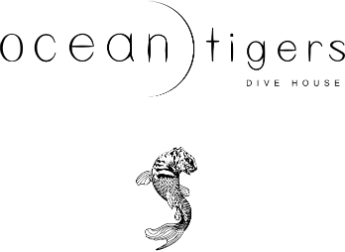
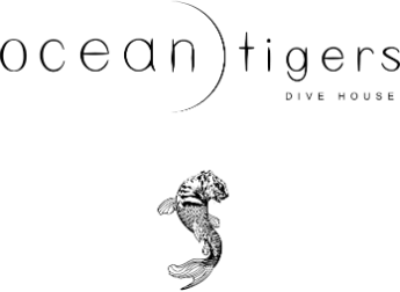
minor changes: padding, img sizes, etc.

diff --git a/css/agency.min.css b/css/agency.min.css
@@ -1,5 +1,5 @@
-.btn-primary.active,.btn-primary:active,.btn-xl.active,.btn-xl:active,.open .dropdown-toggle.btn-primary,.open .dropdown-toggle.btn-xl{background-image:none}.picBtn{position:relative}.picBtn:hover{-moz-box-shadow:0 15px 25px #ccc;-webkit-box-shadow:0 15px 25px #ccc;box-shadow:0 15px 25px #ccc}.picBtn:active{margin-left:10px;margin-top:10px}/*!
+.bg-light-gray,.picBtn{background-color:#eee}.btn-primary.active,.btn-primary:active,.btn-xl.active,.btn-xl:active,.open .dropdown-toggle.btn-primary,.open .dropdown-toggle.btn-xl{background-image:none}.picBtn{position:relative}.picBtn:hover{-moz-box-shadow:0 15px 25px #ccc;-webkit-box-shadow:0 15px 25px #ccc;box-shadow:0 15px 25px #ccc}.picBtn:active{padding-left:10px;padding-top:10px}/*!
  * Start Bootstrap - Agency v1.1.1 (http://startbootstrap.com/template-overviews/agency)
  * Copyright 2013-2016 Start Bootstrap
  * Licensed under MIT (https://github.com/BlackrockDigital/startbootstrap/blob/gh-pages/LICENSE)
- */body{overflow-x:hidden;font-family:"Roboto Slab","Helvetica Neue",Helvetica,Arial,sans-serif;webkit-tap-highlight-color:#fed136}.btn-primary,.btn-xl,h1,h2,h3,h4,h5,h6{font-family:Montserrat,"Helvetica Neue",Helvetica,Arial,sans-serif;text-transform:uppercase;font-weight:700}.text-muted{color:#777}.text-primary,a{color:#fed136}p{font-size:14px;line-height:1.75}p.large{font-size:16px}a,a.active,a:active,a:focus,a:hover{outline:0}a.active,a:active,a:focus,a:hover{color:#fec503}.img-centered{margin:0 auto}.bg-light-gray{background-color:#eee}.bg-darkest-gray{background-color:#222}.btn-primary{color:#fff;background-color:#fed136;border-color:#fed136}.btn-primary.active,.btn-primary:active,.btn-primary:focus,.btn-primary:hover,.open .dropdown-toggle.btn-primary{color:#fff;background-color:#fec503;border-color:#f6bf01}.btn-primary.disabled,.btn-primary.disabled.active,.btn-primary.disabled:active,.btn-primary.disabled:focus,.btn-primary.disabled:hover,.btn-primary[disabled],.btn-primary[disabled].active,.btn-primary[disabled]:active,.btn-primary[disabled]:focus,.btn-primary[disabled]:hover,fieldset[disabled] .btn-primary,fieldset[disabled] .btn-primary.active,fieldset[disabled] .btn-primary:active,fieldset[disabled] .btn-primary:focus,fieldset[disabled] .btn-primary:hover{background-color:#fed136;border-color:#fed136}.btn-primary .badge{color:#fed136;background-color:#fff}.btn-xl{color:#fff;background-color:#fed136;border-color:#fed136;border-radius:3px;font-size:18px;padding:20px 40px}.btn-xl.active,.btn-xl:active,.btn-xl:focus,.btn-xl:hover,.open .dropdown-toggle.btn-xl{color:#fff;background-color:#fec503;border-color:#f6bf01}.btn-xl.disabled,.btn-xl.disabled.active,.btn-xl.disabled:active,.btn-xl.disabled:focus,.btn-xl.disabled:hover,.btn-xl[disabled],.btn-xl[disabled].active,.btn-xl[disabled]:active,.btn-xl[disabled]:focus,.btn-xl[disabled]:hover,fieldset[disabled] .btn-xl,fieldset[disabled] .btn-xl.active,fieldset[disabled] .btn-xl:active,fieldset[disabled] .btn-xl:focus,fieldset[disabled] .btn-xl:hover{background-color:#fed136;border-color:#fed136}.btn-xl .badge{color:#fed136;background-color:#fff}.navbar-custom{background-color:#222;border-color:transparent}.navbar-custom .navbar-brand{color:#fed136;font-family:"Kaushan Script","Helvetica Neue",Helvetica,Arial,cursive}.navbar-custom .navbar-brand.active,.navbar-custom .navbar-brand:active,.navbar-custom .navbar-brand:focus,.navbar-custom .navbar-brand:hover{color:#fec503}.navbar-custom .nav li a,.navbar-custom .navbar-toggle{font-family:Montserrat,"Helvetica Neue",Helvetica,Arial,sans-serif;color:#fff;text-transform:uppercase}.navbar-custom .navbar-collapse{border-color:rgba(255,255,255,.02)}.navbar-custom .navbar-toggle{background-color:#fed136;border-color:#fed136;font-size:12px}.navbar-custom .navbar-toggle:focus,.navbar-custom .navbar-toggle:hover{background-color:#fed136}.navbar-custom .nav li a{font-weight:400;letter-spacing:1px}.navbar-custom .nav li a:focus,.navbar-custom .nav li a:hover{color:#fed136;outline:0}.navbar-custom .navbar-nav>.active>a{border-radius:0;color:#fff;background-color:#fed136}.navbar-custom .navbar-nav>.active>a:focus,.navbar-custom .navbar-nav>.active>a:hover{color:#fff;background-color:#fec503}@media (min-width:768px){.navbar-custom{background-color:transparent;padding:25px 0;-webkit-transition:padding .3s;-moz-transition:padding .3s;transition:padding .3s;border:none}.navbar-custom .navbar-brand{font-size:2em;-webkit-transition:all .3s;-moz-transition:all .3s;transition:all .3s}.navbar-custom .navbar-nav>.active>a{border-radius:3px}.navbar-custom.affix{background-color:#222;padding:10px 0}.navbar-custom.affix .navbar-brand{font-size:1.5em}}header{background-image:url(../img/about/toph_banner.jpg);background-repeat:no-repeat;background-attachment:scroll;background-position:center center;-webkit-background-size:cover;-moz-background-size:cover;background-size:cover;-o-background-size:cover;text-align:center;color:#fff}header .intro-text{padding-top:100px;padding-bottom:50px}header .intro-text .intro-lead-in{font-family:"Droid Serif","Helvetica Neue",Helvetica,Arial,sans-serif;font-style:italic;font-size:22px;line-height:22px;margin-bottom:25px}header .intro-text .intro-heading{font-family:Montserrat,"Helvetica Neue",Helvetica,Arial,sans-serif;text-transform:uppercase;font-weight:700;font-size:50px;line-height:50px;margin-bottom:25px}@media (min-width:768px){header .intro-text{padding-top:300px;padding-bottom:200px}header .intro-text .intro-lead-in{font-family:"Droid Serif","Helvetica Neue",Helvetica,Arial,sans-serif;font-style:italic;font-size:40px;line-height:40px;margin-bottom:25px}header .intro-text .intro-heading{font-family:Montserrat,"Helvetica Neue",Helvetica,Arial,sans-serif;text-transform:uppercase;font-weight:700;font-size:75px;line-height:75px;margin-bottom:50px}}#portfolio .portfolio-item .portfolio-caption p,section h3.section-subheading{font-family:"Droid Serif","Helvetica Neue",Helvetica,Arial,sans-serif;font-style:italic}section{padding:100px 0}section h2.section-heading{font-size:40px;margin-top:0;margin-bottom:15px}section h3.section-subheading{font-size:16px;text-transform:none;font-weight:400;margin-bottom:75px}@media (min-width:768px){section{padding:150px 0}}.service-heading{margin:15px 0;text-transform:none}#portfolio .portfolio-item{margin:0 0 15px;right:0}#portfolio .portfolio-item .portfolio-link{display:block;position:relative;max-width:400px;margin:0 auto}#portfolio .portfolio-item .portfolio-link .portfolio-hover{background:rgba(254,209,54,.9);position:absolute;width:100%;height:100%;opacity:0;transition:all ease .5s;-webkit-transition:all ease .5s;-moz-transition:all ease .5s}#portfolio .portfolio-item .portfolio-link .portfolio-hover:hover{opacity:1}#portfolio .portfolio-item .portfolio-link .portfolio-hover .portfolio-hover-content{position:absolute;width:100%;height:20px;font-size:20px;text-align:center;top:50%;margin-top:-12px;color:#fff}#portfolio .portfolio-item .portfolio-link .portfolio-hover .portfolio-hover-content i{margin-top:-12px}#portfolio .portfolio-item .portfolio-link .portfolio-hover .portfolio-hover-content h3,#portfolio .portfolio-item .portfolio-link .portfolio-hover .portfolio-hover-content h4{margin:0}#portfolio .portfolio-item .portfolio-caption{max-width:400px;margin:0 auto;background-color:#fff;text-align:center;padding:25px}#portfolio .portfolio-item .portfolio-caption h4{text-transform:none;margin:0}#portfolio .portfolio-item .portfolio-caption p{font-size:16px;margin:0}footer span.copyright,footer ul.quicklinks{font-family:Montserrat,"Helvetica Neue",Helvetica,Arial,sans-serif}#portfolio *{z-index:2}@media (min-width:767px){#portfolio .portfolio-item{margin:0 0 30px}}.timeline{list-style:none;padding:0;position:relative}.timeline:before{top:0;bottom:0;position:absolute;content:"";width:2px;background-color:#f1f1f1;left:40px;margin-left:-1.5px}.timeline>li{margin-bottom:50px;position:relative;min-height:50px}.timeline>li:after,.timeline>li:before{content:" ";display:table}.timeline>li:after{clear:both}.timeline>li .timeline-panel{width:100%;float:right;padding:0 20px 0 100px;position:relative;text-align:left}.timeline>li .timeline-panel:before{border-left-width:0;border-right-width:15px;left:-15px;right:auto}.timeline>li .timeline-panel:after{border-left-width:0;border-right-width:14px;left:-14px;right:auto}.timeline>li .timeline-image{left:0;margin-left:0;width:80px;height:80px;position:absolute;z-index:100;background-color:#fed136;color:#fff;border-radius:100%;border:7px solid #f1f1f1;text-align:center}.timeline>li .timeline-image h4{font-size:10px;margin-top:12px;line-height:14px}.timeline>li.timeline-inverted>.timeline-panel{float:right;text-align:left;padding:0 20px 0 100px}.timeline>li.timeline-inverted>.timeline-panel:before{border-left-width:0;border-right-width:15px;left:-15px;right:auto}.timeline>li.timeline-inverted>.timeline-panel:after{border-left-width:0;border-right-width:14px;left:-14px;right:auto}.timeline>li:last-child{margin-bottom:0}.timeline .timeline-heading h4{margin-top:0;color:inherit}.timeline .timeline-heading h4.subheading{text-transform:none}.timeline .timeline-body>p,.timeline .timeline-body>ul{margin-bottom:0}@media (min-width:768px){.timeline:before{left:50%}.timeline>li{margin-bottom:100px;min-height:100px}.timeline>li .timeline-panel{width:41%;float:left;padding:0 20px 20px 30px;text-align:right}.timeline>li .timeline-image{width:100px;height:100px;left:50%;margin-left:-50px}.timeline>li .timeline-image h4{font-size:13px;margin-top:16px;line-height:18px}.timeline>li.timeline-inverted>.timeline-panel{float:right;text-align:left;padding:0 30px 20px 20px}}@media (min-width:992px){.timeline>li .timeline-panel,.timeline>li.timeline-inverted>.timeline-panel{padding:0 20px 20px}.timeline>li{min-height:150px}.timeline>li .timeline-image{width:150px;height:150px;margin-left:-75px}.timeline>li .timeline-image h4{font-size:18px;margin-top:30px;line-height:26px}}@media (min-width:1200px){.timeline>li{min-height:170px}.timeline>li .timeline-panel{padding:0 20px 20px 100px}.timeline>li .timeline-image{width:170px;height:170px;margin-left:-85px}.timeline>li .timeline-image h4{margin-top:40px}.timeline>li.timeline-inverted>.timeline-panel{padding:0 100px 20px 20px}}.team-member{text-align:center;margin-bottom:50px}.team-member img{margin:0 auto;border:7px solid #fff}.team-member h4{margin-top:25px;margin-bottom:0;text-transform:none}.team-member p{margin-top:0}aside.clients img{margin:50px auto}section#contact{background-color:#222;background-image:url(../img/map-image.png);background-position:center;background-repeat:no-repeat}section#contact .section-heading{color:#fff}section#contact .form-group{margin-bottom:25px}section#contact .form-group input,section#contact .form-group textarea{padding:20px}section#contact .form-group input.form-control{height:auto}section#contact .form-group textarea.form-control{height:236px}section#contact .form-control:focus{border-color:#fed136;box-shadow:none}section#contact ::-webkit-input-placeholder{font-family:Montserrat,"Helvetica Neue",Helvetica,Arial,sans-serif;text-transform:uppercase;font-weight:700;color:#eee}section#contact :-moz-placeholder{font-family:Montserrat,"Helvetica Neue",Helvetica,Arial,sans-serif;text-transform:uppercase;font-weight:700;color:#eee}section#contact ::-moz-placeholder{font-family:Montserrat,"Helvetica Neue",Helvetica,Arial,sans-serif;text-transform:uppercase;font-weight:700;color:#eee}section#contact :-ms-input-placeholder{font-family:Montserrat,"Helvetica Neue",Helvetica,Arial,sans-serif;text-transform:uppercase;font-weight:700;color:#eee}section#contact .text-danger{color:#e74c3c}footer{padding:25px 0;text-align:center}footer span.copyright{line-height:40px;text-transform:uppercase;text-transform:none}footer ul.quicklinks{margin-bottom:0;line-height:40px;text-transform:uppercase;text-transform:none}ul.social-buttons{margin-bottom:0}ul.social-buttons li a{display:block;background-color:#222;height:40px;width:40px;border-radius:100%;font-size:20px;line-height:40px;color:#fff;outline:0;-webkit-transition:all .3s;-moz-transition:all .3s;transition:all .3s}ul.social-buttons li a:active,ul.social-buttons li a:focus,ul.social-buttons li a:hover{background-color:#fed136}.btn.active,.btn:active,.btn:active:focus,.btn:focus{outline:0}.portfolio-modal .modal-dialog{margin:0;height:100%;width:auto}.portfolio-modal .modal-content{border-radius:0;background-clip:border-box;-webkit-box-shadow:none;box-shadow:none;border:none;min-height:100%;padding:100px 0;text-align:center}.portfolio-modal .modal-content h2{margin-bottom:15px;font-size:3em}.portfolio-modal .modal-content p{margin-bottom:30px}.portfolio-modal .modal-content p.item-intro{margin:20px 0 30px;font-family:"Droid Serif","Helvetica Neue",Helvetica,Arial,sans-serif;font-style:italic;font-size:16px}.portfolio-modal .modal-content ul.list-inline{margin-bottom:30px;margin-top:0}.portfolio-modal .modal-content img{margin-bottom:30px}.portfolio-modal .close-modal{position:absolute;width:75px;height:75px;background-color:transparent;top:25px;right:25px;cursor:pointer}.portfolio-modal .close-modal:hover{opacity:.3}.portfolio-modal .close-modal .lr{height:75px;width:1px;margin-left:35px;background-color:#222;transform:rotate(45deg);-ms-transform:rotate(45deg);-webkit-transform:rotate(45deg);z-index:1051}.portfolio-modal .close-modal .lr .rl{height:75px;width:1px;background-color:#222;transform:rotate(90deg);-ms-transform:rotate(90deg);-webkit-transform:rotate(90deg);z-index:1052}.portfolio-modal .modal-backdrop{opacity:0;display:none}::-moz-selection{text-shadow:none;background:#fed136}::selection{text-shadow:none;background:#fed136}img::selection{background:0 0}img::-moz-selection{background:0 0}
+ */body{overflow-x:hidden;font-family:"Roboto Slab","Helvetica Neue",Helvetica,Arial,sans-serif;webkit-tap-highlight-color:#fed136}.btn-primary,.btn-xl,h1,h2,h3,h4,h5,h6{font-family:Montserrat,"Helvetica Neue",Helvetica,Arial,sans-serif;text-transform:uppercase;font-weight:700}.text-muted{color:#777}.text-primary,a{color:#fed136}p{font-size:14px;line-height:1.75}p.large{font-size:16px}a,a.active,a:active,a:focus,a:hover{outline:0}a.active,a:active,a:focus,a:hover{color:#fec503}.img-centered{margin:0 auto}.bg-darkest-gray{background-color:#222}.btn-primary{color:#fff;background-color:#fed136;border-color:#fed136}.btn-primary.active,.btn-primary:active,.btn-primary:focus,.btn-primary:hover,.open .dropdown-toggle.btn-primary{color:#fff;background-color:#fec503;border-color:#f6bf01}.btn-primary.disabled,.btn-primary.disabled.active,.btn-primary.disabled:active,.btn-primary.disabled:focus,.btn-primary.disabled:hover,.btn-primary[disabled],.btn-primary[disabled].active,.btn-primary[disabled]:active,.btn-primary[disabled]:focus,.btn-primary[disabled]:hover,fieldset[disabled] .btn-primary,fieldset[disabled] .btn-primary.active,fieldset[disabled] .btn-primary:active,fieldset[disabled] .btn-primary:focus,fieldset[disabled] .btn-primary:hover{background-color:#fed136;border-color:#fed136}.btn-primary .badge{color:#fed136;background-color:#fff}.btn-xl{color:#fff;background-color:#fed136;border-color:#fed136;border-radius:3px;font-size:18px;padding:20px 40px}.btn-xl.active,.btn-xl:active,.btn-xl:focus,.btn-xl:hover,.open .dropdown-toggle.btn-xl{color:#fff;background-color:#fec503;border-color:#f6bf01}.btn-xl.disabled,.btn-xl.disabled.active,.btn-xl.disabled:active,.btn-xl.disabled:focus,.btn-xl.disabled:hover,.btn-xl[disabled],.btn-xl[disabled].active,.btn-xl[disabled]:active,.btn-xl[disabled]:focus,.btn-xl[disabled]:hover,fieldset[disabled] .btn-xl,fieldset[disabled] .btn-xl.active,fieldset[disabled] .btn-xl:active,fieldset[disabled] .btn-xl:focus,fieldset[disabled] .btn-xl:hover{background-color:#fed136;border-color:#fed136}.btn-xl .badge{color:#fed136;background-color:#fff}.navbar-custom{background-color:#222;border-color:transparent}.navbar-custom .navbar-brand{color:#fed136;font-family:"Kaushan Script","Helvetica Neue",Helvetica,Arial,cursive}.navbar-custom .navbar-brand.active,.navbar-custom .navbar-brand:active,.navbar-custom .navbar-brand:focus,.navbar-custom .navbar-brand:hover{color:#fec503}.navbar-custom .nav li a,.navbar-custom .navbar-toggle{font-family:Montserrat,"Helvetica Neue",Helvetica,Arial,sans-serif;color:#fff;text-transform:uppercase}.navbar-custom .navbar-collapse{border-color:rgba(255,255,255,.02)}.navbar-custom .navbar-toggle{background-color:#fed136;border-color:#fed136;font-size:12px}.navbar-custom .navbar-toggle:focus,.navbar-custom .navbar-toggle:hover{background-color:#fed136}.navbar-custom .nav li a{font-weight:400;letter-spacing:1px}.navbar-custom .nav li a:focus,.navbar-custom .nav li a:hover{color:#fed136;outline:0}.navbar-custom .navbar-nav>.active>a{border-radius:0;color:#fff;background-color:#fed136}.navbar-custom .navbar-nav>.active>a:focus,.navbar-custom .navbar-nav>.active>a:hover{color:#fff;background-color:#fec503}@media (min-width:768px){.navbar-custom{background-color:transparent;padding:25px 0;-webkit-transition:padding .3s;-moz-transition:padding .3s;transition:padding .3s;border:none}.navbar-custom .navbar-brand{font-size:2em;-webkit-transition:all .3s;-moz-transition:all .3s;transition:all .3s}.navbar-custom .navbar-nav>.active>a{border-radius:3px}.navbar-custom.affix{background-color:#222;padding:10px 0}.navbar-custom.affix .navbar-brand{font-size:1.5em}}header{background-image:url(../img/about/toph_banner.jpg);background-repeat:no-repeat;background-attachment:scroll;background-position:center center;-webkit-background-size:cover;-moz-background-size:cover;background-size:cover;-o-background-size:cover;text-align:center;color:#fff}header .intro-text{padding-top:100px;padding-bottom:50px}header .intro-text .intro-lead-in{font-family:"Droid Serif","Helvetica Neue",Helvetica,Arial,sans-serif;font-style:italic;font-size:22px;line-height:22px;margin-bottom:25px}header .intro-text .intro-heading{font-family:Montserrat,"Helvetica Neue",Helvetica,Arial,sans-serif;text-transform:uppercase;font-weight:700;font-size:50px;line-height:50px;margin-bottom:25px}@media (min-width:768px){header .intro-text{padding-top:300px;padding-bottom:200px}header .intro-text .intro-lead-in{font-family:"Droid Serif","Helvetica Neue",Helvetica,Arial,sans-serif;font-style:italic;font-size:40px;line-height:40px;margin-bottom:25px}header .intro-text .intro-heading{font-family:Montserrat,"Helvetica Neue",Helvetica,Arial,sans-serif;text-transform:uppercase;font-weight:700;font-size:75px;line-height:75px;margin-bottom:50px}}#portfolio .portfolio-item .portfolio-caption p,section h3.section-subheading{font-family:"Droid Serif","Helvetica Neue",Helvetica,Arial,sans-serif;font-style:italic}section{padding:100px 0}section h2.section-heading{font-size:40px;margin-top:0;margin-bottom:15px}section h3.section-subheading{font-size:16px;text-transform:none;font-weight:400;margin-bottom:75px}@media (min-width:768px){section{padding:150px 0}}.service-heading{margin:15px 0;text-transform:none}#portfolio .portfolio-item{margin:0 0 15px;right:0}#portfolio .portfolio-item .portfolio-link{display:block;position:relative;max-width:400px;margin:0 auto}#portfolio .portfolio-item .portfolio-link .portfolio-hover{background:rgba(254,209,54,.9);position:absolute;width:100%;height:100%;opacity:0;transition:all ease .5s;-webkit-transition:all ease .5s;-moz-transition:all ease .5s}#portfolio .portfolio-item .portfolio-link .portfolio-hover:hover{opacity:1}#portfolio .portfolio-item .portfolio-link .portfolio-hover .portfolio-hover-content{position:absolute;width:100%;height:20px;font-size:20px;text-align:center;top:50%;margin-top:-12px;color:#fff}#portfolio .portfolio-item .portfolio-link .portfolio-hover .portfolio-hover-content i{margin-top:-12px}#portfolio .portfolio-item .portfolio-link .portfolio-hover .portfolio-hover-content h3,#portfolio .portfolio-item .portfolio-link .portfolio-hover .portfolio-hover-content h4{margin:0}#portfolio .portfolio-item .portfolio-caption{max-width:400px;margin:0 auto;background-color:#fff;text-align:center;padding:25px}#portfolio .portfolio-item .portfolio-caption h4{text-transform:none;margin:0}#portfolio .portfolio-item .portfolio-caption p{font-size:16px;margin:0}footer span.copyright,footer ul.quicklinks{font-family:Montserrat,"Helvetica Neue",Helvetica,Arial,sans-serif}#portfolio *{z-index:2}@media (min-width:767px){#portfolio .portfolio-item{margin:0 0 30px}}.timeline{list-style:none;padding:0;position:relative}.timeline:before{top:0;bottom:0;position:absolute;content:"";width:2px;background-color:#f1f1f1;left:40px;margin-left:-1.5px}.timeline>li{margin-bottom:50px;position:relative;min-height:50px}.timeline>li:after,.timeline>li:before{content:" ";display:table}.timeline>li:after{clear:both}.timeline>li .timeline-panel{width:100%;float:right;padding:0 20px 0 100px;position:relative;text-align:left}.timeline>li .timeline-panel:before{border-left-width:0;border-right-width:15px;left:-15px;right:auto}.timeline>li .timeline-panel:after{border-left-width:0;border-right-width:14px;left:-14px;right:auto}.timeline>li .timeline-image{left:0;margin-left:0;width:80px;height:80px;position:absolute;z-index:100;background-color:#fed136;color:#fff;border-radius:100%;border:7px solid #f1f1f1;text-align:center}.timeline>li .timeline-image h4{font-size:10px;margin-top:12px;line-height:14px}.timeline>li.timeline-inverted>.timeline-panel{float:right;text-align:left;padding:0 20px 0 100px}.timeline>li.timeline-inverted>.timeline-panel:before{border-left-width:0;border-right-width:15px;left:-15px;right:auto}.timeline>li.timeline-inverted>.timeline-panel:after{border-left-width:0;border-right-width:14px;left:-14px;right:auto}.timeline>li:last-child{margin-bottom:0}.timeline .timeline-heading h4{margin-top:0;color:inherit}.timeline .timeline-heading h4.subheading{text-transform:none}.timeline .timeline-body>p,.timeline .timeline-body>ul{margin-bottom:0}@media (min-width:768px){.timeline:before{left:50%}.timeline>li{margin-bottom:100px;min-height:100px}.timeline>li .timeline-panel{width:41%;float:left;padding:0 20px 20px 30px;text-align:right}.timeline>li .timeline-image{width:100px;height:100px;left:50%;margin-left:-50px}.timeline>li .timeline-image h4{font-size:13px;margin-top:16px;line-height:18px}.timeline>li.timeline-inverted>.timeline-panel{float:right;text-align:left;padding:0 30px 20px 20px}}@media (min-width:992px){.timeline>li .timeline-panel,.timeline>li.timeline-inverted>.timeline-panel{padding:0 20px 20px}.timeline>li{min-height:150px}.timeline>li .timeline-image{width:150px;height:150px;margin-left:-75px}.timeline>li .timeline-image h4{font-size:18px;margin-top:30px;line-height:26px}}@media (min-width:1200px){.timeline>li{min-height:170px}.timeline>li .timeline-panel{padding:0 20px 20px 100px}.timeline>li .timeline-image{width:170px;height:170px;margin-left:-85px}.timeline>li .timeline-image h4{margin-top:40px;padding:0 10px}.timeline>li.timeline-inverted>.timeline-panel{padding:0 100px 20px 20px}}.team-member{text-align:center;margin-bottom:50px}.team-member img{margin:0 auto;border:7px solid #fff}.team-member h4{margin-top:25px;margin-bottom:0;text-transform:none}.team-member p{margin-top:0}aside.clients img{margin:50px auto}section#contact{background-color:#222;background-image:url(../img/map-image.png);background-position:center;background-repeat:no-repeat}section#contact .section-heading{color:#fff}section#contact .form-group{margin-bottom:25px}section#contact .form-group input,section#contact .form-group textarea{padding:20px}section#contact .form-group input.form-control{height:auto}section#contact .form-group textarea.form-control{height:236px}section#contact .form-control:focus{border-color:#fed136;box-shadow:none}section#contact ::-webkit-input-placeholder{font-family:Montserrat,"Helvetica Neue",Helvetica,Arial,sans-serif;text-transform:uppercase;font-weight:700;color:#eee}section#contact :-moz-placeholder{font-family:Montserrat,"Helvetica Neue",Helvetica,Arial,sans-serif;text-transform:uppercase;font-weight:700;color:#eee}section#contact ::-moz-placeholder{font-family:Montserrat,"Helvetica Neue",Helvetica,Arial,sans-serif;text-transform:uppercase;font-weight:700;color:#eee}section#contact :-ms-input-placeholder{font-family:Montserrat,"Helvetica Neue",Helvetica,Arial,sans-serif;text-transform:uppercase;font-weight:700;color:#eee}section#contact .text-danger{color:#e74c3c}footer{padding:25px 0;text-align:center}footer span.copyright{line-height:40px;text-transform:uppercase;text-transform:none}footer ul.quicklinks{margin-bottom:0;line-height:40px;text-transform:uppercase;text-transform:none}ul.social-buttons{margin-bottom:0}ul.social-buttons li a{display:block;background-color:#222;height:40px;width:40px;border-radius:100%;font-size:20px;line-height:40px;color:#fff;outline:0;-webkit-transition:all .3s;-moz-transition:all .3s;transition:all .3s}ul.social-buttons li a:active,ul.social-buttons li a:focus,ul.social-buttons li a:hover{background-color:#fed136}.btn.active,.btn:active,.btn:active:focus,.btn:focus{outline:0}.portfolio-modal .modal-dialog{margin:0;height:100%;width:auto}.portfolio-modal .modal-content{border-radius:0;background-clip:border-box;-webkit-box-shadow:none;box-shadow:none;border:none;min-height:100%;padding:100px 0;text-align:center}.portfolio-modal .modal-content h2{margin-bottom:15px;font-size:3em}.portfolio-modal .modal-content p{margin-bottom:30px}.portfolio-modal .modal-content p.item-intro{margin:20px 0 30px;font-family:"Droid Serif","Helvetica Neue",Helvetica,Arial,sans-serif;font-style:italic;font-size:16px}.portfolio-modal .modal-content ul.list-inline{margin-bottom:30px;margin-top:0}.portfolio-modal .modal-content img{margin-bottom:30px}.portfolio-modal .close-modal{position:absolute;width:75px;height:75px;background-color:transparent;top:25px;right:25px;cursor:pointer}.portfolio-modal .close-modal:hover{opacity:.3}.portfolio-modal .close-modal .lr{height:75px;width:1px;margin-left:35px;background-color:#222;transform:rotate(45deg);-ms-transform:rotate(45deg);-webkit-transform:rotate(45deg);z-index:1051}.portfolio-modal .close-modal .lr .rl{height:75px;width:1px;background-color:#222;transform:rotate(90deg);-ms-transform:rotate(90deg);-webkit-transform:rotate(90deg);z-index:1052}.portfolio-modal .modal-backdrop{opacity:0;display:none}::-moz-selection{text-shadow:none;background:#fed136}::selection{text-shadow:none;background:#fed136}img::selection{background:0 0}img::-moz-selection{background:0 0}

diff --git a/index.html b/index.html
@@ -462,13 +462,44 @@
                                 <!-- Project Details Go Here -->
                                 <h2>Ocean Tigers Dive House</h2>
                                 <p class="item-intro text-muted">A custom-built website design and build.</p>
-                                <a href="//www.oceantigers.com" target="_blank" id="oceanTigers">
-                                  <img class="img-responsive img-centered picBtn" src="img/portfolio/ocean-tigers-banner.jpg" alt="AUGHH! Where'd the Ocean Tigers image go?!" id="otButton">
-                                </a>
+                                <div class="picBtn">
+                                  <a href="//www.oceantigers.com" target="_blank" id="oceanTigers">
+                                    <img class="img-responsive img-centered" src="img/portfolio/ocean-tigers-banner.jpg" alt="AUGHH! Where'd the Ocean Tigers image go?!" id="otButton">
+                                  </a>
+                                </div>
                                 <p>
                                   <strong>Do you need a static site to connect with your customers?</strong> The
                                   <a href="//www.oceantigers.com" target="_blank">Ocean Tigers Dive House</a>
                                   , located in Cabo San Lucas is a Hostel that specializes in providing Free-Diving and SCUBA Diving instruction and certification.
+                                </p>
+                                <p>
+                                    I worked with the hostel owners to put their vision online and connect it with their Facebook, Instagram, and Airbnb accounts.
+                                    I also made sure that any search related to free diving, SCUBA diving, and hostels in Cabo resulted in Ocean Tigers being bumped right to the top of a google search.  Give it a try! Google them yourself!</p>
+                                <ul class="list-inline">
+                                    <li>Date: June 2016</li>
+                                    <li>Client: Ocean Tigers Dive House</li>
+                                    <li>Category: Website Design and Development</li>
+                                    <li>Time Estimate: 90 hours
+                                </ul>
+                                <button type="button" class="btn btn-primary" data-dismiss="modal"><i class="fa fa-times"></i> Close Project</button>
+                            </div>
+                        </div>
+                    </div>
+                </div>
+                <div class="container">
+                    <div class="row">
+                        <div class="col-lg-8 col-lg-offset-2">
+                            <div class="modal-body">
+                                <!-- Project Details Go Here -->
+                                <h2>Topher's Online Portfolio</h2>
+                                <p class="item-intro text-muted">A bootstrap-themed website redesign.</p>
+                                <div class="picBtn">
+                                  <a href="//iareintelligent.github.io/tophs-portfolio/" target="_blank">
+                                    <img class="img-responsive img-centered" src="img/about/portfolio-screenshot.png" alt="AUGHH! Where'd the portfolio image go?!" id="otButton">
+                                  </a>
+                                </div>
+                                <p>
+                                  <strong>Want to repurpose a theme?</strong> My own personal site was built using a 
                                 </p>
                                 <p>
                                     I worked with the hostel owners to put their vision online and connect it with their Facebook, Instagram, and Airbnb accounts.
@@ -504,9 +535,9 @@
                             <div class="modal-body">
                                 <h2>THREDE LLC</h2>
                                 <p class="item-intro text-muted">A custom-made website design and build (work in progress).</p>
-                                <div>
+                                <div class="picBtn">
                                   <a href="//www.threde.com" target="_blank" id="threde">
-                                    <img class="img-responsive img-centered picBtn" src="img/portfolio/threde-banner.png" alt="Aughh!  Where'd the threde img go?!">
+                                    <img class="img-responsive img-centered" src="img/portfolio/threde-banner.png" alt="Aughh!  Where'd the threde img go?!">
                                   </a>
                                 </div>
                                 <p>
@@ -550,9 +581,11 @@
                                 <!-- Project Details Go Here -->
                                 <h2>Panasonic Email Template</h2>
                                 <p class="item-intro text-muted">A custom-made email template.</p>
-                                <a href="//iareintelligent.gitlab.io/ps-email-template_Jul2016/" target="_blank">
-                                  <img class="img-responsive img-centered picBtn" src="img/portfolio/panasonic-email-screenshot.png" alt="">
-                                </a>
+                                <div class="picBtn">
+                                  <a href="//iareintelligent.gitlab.io/ps-email-template_Jul2016/" target="_blank">
+                                    <img class="img-responsive img-centered" src="img/portfolio/panasonic-email-screenshot.png" alt="">
+                                  </a>
+                                </div>
                                 <p>I built this <a href="//iareintelligent.gitlab.io/ps-email-template_Jul2016/" target="_blank">custom email template</a>
                                    for Panasonic.  Every email template I create is tested against all the
                                    major email clients to ensure it loads properly in your customer's inbox.

diff --git a/css/agency.css b/css/agency.css
@@ -1,6 +1,7 @@
 /*Custom CSS for Toph's Profile*/
 .picBtn {
   position: relative;
+  background-color: #eeeeee;
 }
 
 .picBtn:hover {
@@ -10,8 +11,8 @@
 }
 
 .picBtn:active {
-  margin-left: 10px;
-  margin-top: 10px;
+  padding-left: 10px;
+  padding-top: 10px;
 }
 
 /*!
@@ -545,6 +546,7 @@ section h3.section-subheading {
   }
   .timeline > li .timeline-image h4 {
     margin-top: 40px;
+    padding: 0px 10px;
   }
   .timeline > li.timeline-inverted > .timeline-panel {
     padding: 0 100px 20px 20px;
